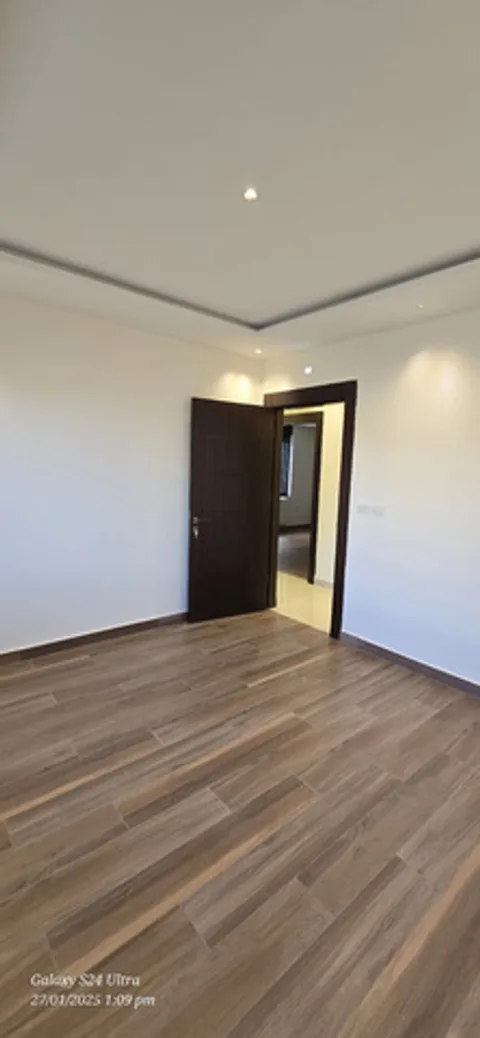
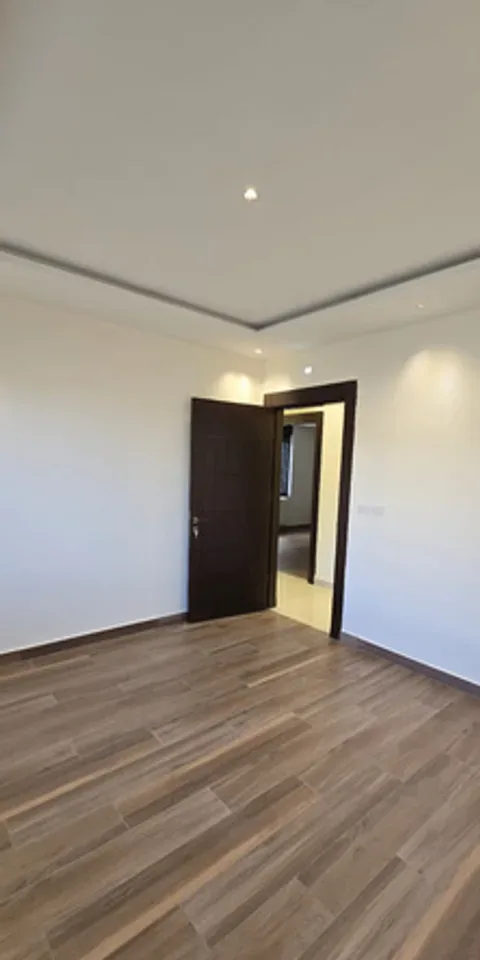
Fix 28 broken image URLs, crop the camera stamp off 15 photographs
picture() emitted a srcset for all four widths on every image and a src for
-1280.webp, regardless of what was on disk. Most of the brochure photographs are
480px at source — phone pictures embedded in a PDF, not studio files — so the
pages asked for sherman2-interior-1-1280.webp and got a 404. Twenty-eight URLs,
and because a browser picks the largest candidate that fits, they broke on
exactly the wide viewports where the images matter most. Upscaling is not the
fix; 480px is the real resolution. tools/img-manifest.mjs now records the widths
that exist per image, picture() offers only those, and src falls back to the
largest available rather than assuming 1280. A name missing from the manifest
still renders on all four widths, so a newly added image is never worse off than
before.

Fifteen photographs carried a burned-in "Galaxy S24 Ultra" stamp with the date
and time of the shot — including sherman2-exterior-day, which is the page hero
on two pages at 1920px. Each is cropped just above the stamp, 7% to 15% off the
bottom and all of it floor or road, then re-rendered at every width.

sherman2-interior-2, -4, -6 and lobby-4 join the General Sherman 2 gallery with
captions. They were held back only because of the stamp, which is now gone.

Verified: 59 image URLs referenced across 11 pages, all 200; the bottom strip of
all 21 photographs is clean; no console errors and no overflow at 414 or 1440.

Claude-Session: https://claude.ai/code/session_01Dn92wH5kZy9PxeQGkNu4eo

diff --git a/website/assets/js/app.js b/website/assets/js/app.js
@@ -63,10 +63,22 @@ const $ = (sel, root = document) => root.querySelector(sel);
 const $$ = (sel, root = document) => Array.from(root.querySelectorAll(sel));
 const esc = (s) => String(s).replace(/[&<>"']/g, (c) => ({ "&": "&amp;", "<": "&lt;", ">": "&gt;", '"': "&quot;", "'": "&#39;" }[c]));
 
-/** Responsive <img> for a generated scene. */
+/**
+ * Responsive <img>.
+ *
+ * The srcset lists only the widths that exist on disk, from IMG_VARIANTS in
+ * img-manifest.js. Most of the brochure photographs top out at 480px — they
+ * are phone pictures embedded in a PDF — and offering the browser a 1280 that
+ * is not there means a 404 on exactly the wide viewports where it picks the
+ * largest candidate. A name absent from the manifest falls back to all four
+ * widths, so a newly dropped-in image still renders before `npm run manifest`
+ * has been run.
+ */
 function picture(name, alt, { sizes = "100vw", cls = "", eager = false, ratio = "" } = {}) {
-  const srcset = IMG_WIDTHS.map((w) => `${BASE}assets/img/${name}-${w}.webp ${w}w`).join(", ");
-  return `<img src="${BASE}assets/img/${name}-1280.webp" srcset="${srcset}" sizes="${sizes}"
+  const widths = (typeof IMG_VARIANTS !== "undefined" && IMG_VARIANTS[name]) || IMG_WIDTHS;
+  const srcset = widths.map((w) => `${BASE}assets/img/${name}-${w}.webp ${w}w`).join(", ");
+  const fallback = widths.includes(1280) ? 1280 : widths[widths.length - 1];
+  return `<img src="${BASE}assets/img/${name}-${fallback}.webp" srcset="${srcset}" sizes="${sizes}"
     alt="${esc(alt)}" class="${cls}" ${ratio ? `style="aspect-ratio:${ratio}"` : ""}
     loading="${eager ? "eager" : "lazy"}" decoding="async" ${eager ? 'fetchpriority="high"' : ""} width="1280" height="720">`;
 }

diff --git a/website/assets/js/pages.js b/website/assets/js/pages.js
@@ -148,8 +148,11 @@
       "sherman2-living-2": { ar: "جنرال شيرمان ٢ — المعيشة", en: "General Sherman 2 — living area" },
       "sherman2-living-3": { ar: "جنرال شيرمان ٢ — مساحة الاستقبال", en: "General Sherman 2 — reception space" },
       "sherman2-interior-1": { ar: "جنرال شيرمان ٢ — غرفة نوم", en: "General Sherman 2 — bedroom" },
+      "sherman2-interior-2": { ar: "جنرال شيرمان ٢ — غرفة بأرضية خشبية", en: "General Sherman 2 — room with wood flooring" },
       "sherman2-interior-3": { ar: "جنرال شيرمان ٢ — الحمّام", en: "General Sherman 2 — bathroom" },
+      "sherman2-interior-4": { ar: "جنرال شيرمان ٢ — ممر الغرف", en: "General Sherman 2 — bedroom corridor" },
       "sherman2-interior-5": { ar: "جنرال شيرمان ٢ — الممر الداخلي", en: "General Sherman 2 — internal corridor" },
+      "sherman2-interior-6": { ar: "جنرال شيرمان ٢ — باب الشقة", en: "General Sherman 2 — apartment entrance door" },
       "sherman2-interior-7": { ar: "جنرال شيرمان ٢ — تشطيبات الأبواب", en: "General Sherman 2 — door finishes" },
       "sherman1-1": { ar: "جنرال شيرمان ١ — المشروع المُسلَّم", en: "General Sherman 1 — the delivered scheme" },
       "sherman1-3": { ar: "جنرال شيرمان ١ — الواجهة", en: "General Sherman 1 — elevation" },

diff --git a/website/assets/js/img-manifest.js b/website/assets/js/img-manifest.js
@@ -1,0 +1,42 @@
+/* Generated by tools/img-manifest.mjs — do not edit by hand.
+   Run `npm run manifest` after adding or re-rendering an image.
+
+   Which widths exist on disk for each image, so picture() can offer the
+   browser a srcset it can actually fetch. A name missing from this map falls
+   back to all four widths. */
+const IMG_VARIANTS = {
+  "plan-a": [800, 1280],
+  "plan-b": [800, 1280],
+  "plan-c": [800, 1280],
+  "plan-d": [800, 1280],
+  "plan-e": [800, 1280],
+  "plan-f": [800, 1280],
+  "plan-g": [800, 1280],
+  "plan-h": [800, 1280],
+  "plan-i": [800, 1280],
+  "sherman1-1": [480, 800, 1280, 1920],
+  "sherman1-2": [480, 800, 1280],
+  "sherman1-3": [480, 800, 1280, 1920],
+  "sherman1-4": [480, 800],
+  "sherman2-entrance": [480],
+  "sherman2-exterior-day": [480, 800, 1280, 1920],
+  "sherman2-exterior-dusk": [480, 800, 1280],
+  "sherman2-interior-1": [480],
+  "sherman2-interior-2": [480],
+  "sherman2-interior-3": [480],
+  "sherman2-interior-4": [480],
+  "sherman2-interior-5": [480],
+  "sherman2-interior-6": [480],
+  "sherman2-interior-7": [480],
+  "sherman2-living-1": [480, 800, 1280],
+  "sherman2-living-2": [480, 800, 1280],
+  "sherman2-living-3": [480, 800],
+  "sherman2-lobby-1": [480, 800],
+  "sherman2-lobby-2": [480, 800],
+  "sherman2-lobby-3": [480],
+  "sherman2-lobby-4": [480],
+  "sherman3-1": [480, 800, 1280, 1920],
+  "sherman3-2": [480, 800, 1280, 1920],
+  "sherman3-3": [480, 800, 1280, 1920],
+  "sherman3-4": [480, 800, 1280, 1920],
+};

diff --git a/website/assets/js/data.js b/website/assets/js/data.js
@@ -137,6 +137,7 @@ const PROJECTS = [
       "sherman2-exterior-day", "sherman2-exterior-dusk", "sherman2-lobby-1", "sherman2-lobby-2",
       "sherman2-entrance", "sherman2-living-1", "sherman2-living-2", "sherman2-interior-1",
       "sherman2-interior-3", "sherman2-interior-5", "sherman2-interior-7", "sherman2-lobby-3",
+      "sherman2-interior-2", "sherman2-interior-4", "sherman2-interior-6", "sherman2-lobby-4",
     ],
     /* Every apartment as listed in the brochure's schedule. Prices are per unit
        and do not follow a formula, so they are stated, not derived. */

diff --git a/website/gallery.html b/website/gallery.html
@@ -150,6 +150,7 @@
   </div>
 </div>
 
+<script src="assets/js/img-manifest.js"></script>
 <script src="assets/js/data.js"></script>
 <script src="assets/js/i18n.js"></script>
 <script src="assets/js/app.js"></script>

diff --git a/website/index.html b/website/index.html
@@ -283,6 +283,7 @@
   </div>
 </div>
 
+<script src="assets/js/img-manifest.js"></script>
 <script src="assets/js/data.js"></script>
 <script src="assets/js/i18n.js"></script>
 <script src="assets/js/app.js"></script>

diff --git a/website/project.html b/website/project.html
@@ -311,6 +311,7 @@
   </div>
 </div>
 
+<script src="assets/js/img-manifest.js"></script>
 <script src="assets/js/data.js"></script>
 <script src="assets/js/i18n.js"></script>
 <script src="assets/js/app.js"></script>

diff --git a/website/projects.html b/website/projects.html
@@ -173,6 +173,7 @@
   </div>
 </div>
 
+<script src="assets/js/img-manifest.js"></script>
 <script src="assets/js/data.js"></script>
 <script src="assets/js/i18n.js"></script>
 <script src="assets/js/app.js"></script>

diff --git a/website/units.html b/website/units.html
@@ -192,6 +192,7 @@
   </div>
 </div>
 
+<script src="assets/js/img-manifest.js"></script>
 <script src="assets/js/data.js"></script>
 <script src="assets/js/i18n.js"></script>
 <script src="assets/js/app.js"></script>

diff --git a/website/404.html b/website/404.html
@@ -117,6 +117,7 @@
 
 
 
+<script src="assets/js/img-manifest.js"></script>
 <script src="assets/js/data.js"></script>
 <script src="assets/js/i18n.js"></script>
 <script src="assets/js/app.js"></script>

diff --git a/website/about.html b/website/about.html
@@ -179,6 +179,7 @@
 
 
 
+<script src="assets/js/img-manifest.js"></script>
 <script src="assets/js/data.js"></script>
 <script src="assets/js/i18n.js"></script>
 <script src="assets/js/app.js"></script>

diff --git a/website/contact.html b/website/contact.html
@@ -209,6 +209,7 @@
 
 
 
+<script src="assets/js/img-manifest.js"></script>
 <script src="assets/js/data.js"></script>
 <script src="assets/js/i18n.js"></script>
 <script src="assets/js/app.js"></script>
